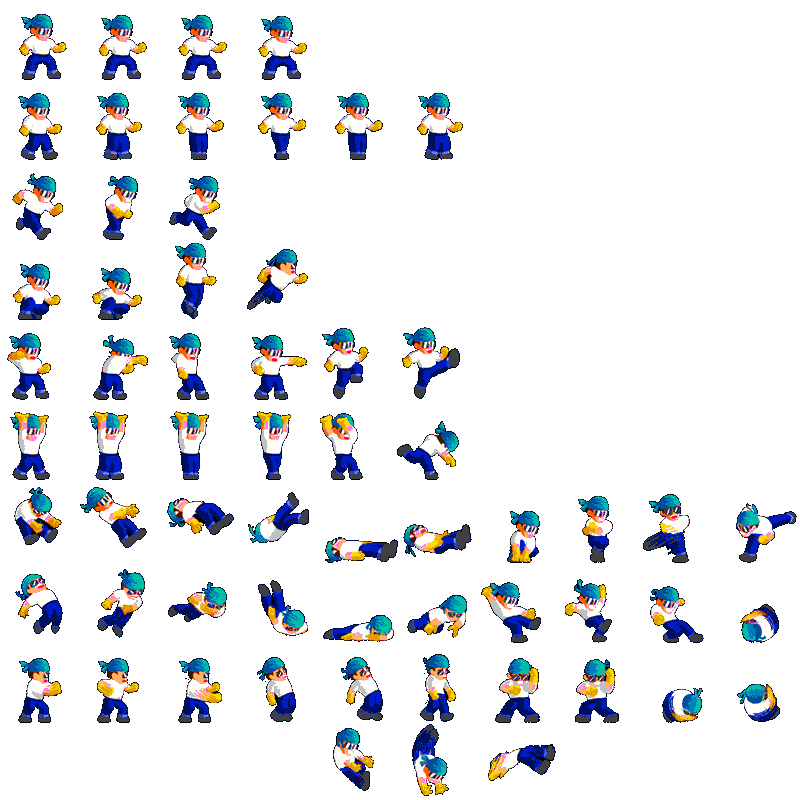
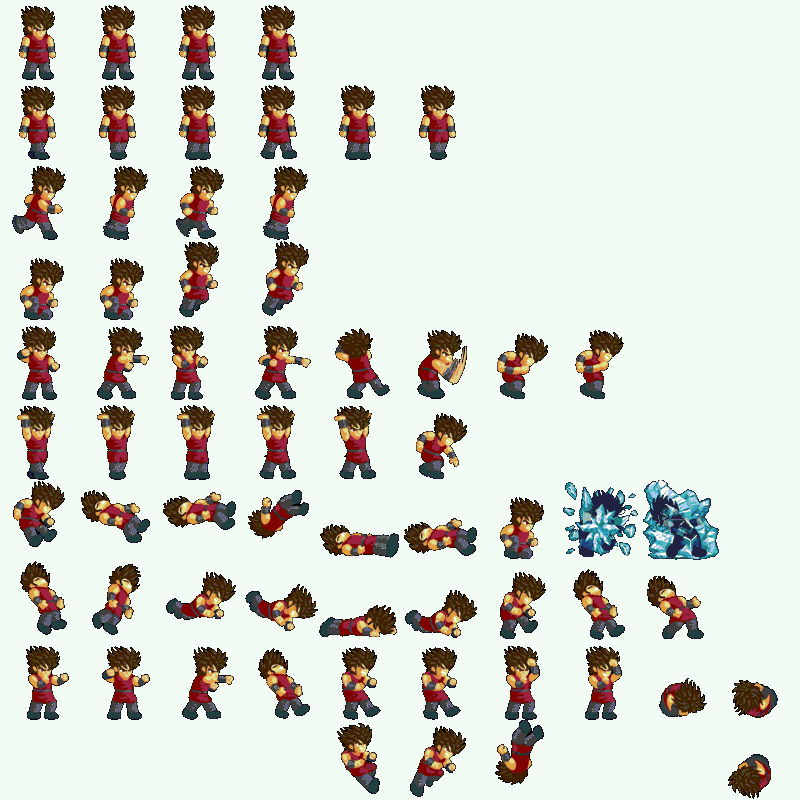
- Compleet werkend menu toegevoegd, met de mogelijkheid het spel te starten, af te sluiten, of naar een optiemenu te gaan, waar men de character kan aanpassen. Het gekozen character staat bewegend aan de zijkant van het scherm. - Marge van 50 naar 250 gewijzigd - Character2 aangepast

diff --git a/Prototype/Prototype/Game1.cs b/Prototype/Prototype/Game1.cs
@@ -15,32 +15,37 @@ namespace Prototype
 {
     public class Game1 : Microsoft.Xna.Framework.Game
     {
-        //Game status
-        public enum GameState
-        {
-            StartScreen,
-            Running
-        }
-
-        //Textures startscherm en eindscherm
-        Texture2D startScreen;
-
-        //Game status in het begin
-        GameState gameState = GameState.StartScreen;
-
         GraphicsDeviceManager graphics;
         SpriteBatch spriteBatch;
 
-        Character character;
+        MainMenu mainMenu;
+        OptionsMenu optionsMenu;        
+        public enum GameState //Game status
+        {
+            mainmenu,
+            options,
+            running
+        }
+        public GameState gameState = GameState.mainmenu;
 
+      public  enum Difficulty
+        {
+            easy,
+            medium,
+            hard
+        }
+       public Difficulty difficulty = Difficulty.easy;
+
+       public static Character character;
         public static Texture2D character1Texture;
         public static Texture2D character2Texture;
+
         Texture2D backgroundTexture;
 
         public static List<Platform> platforms;
         Texture2D platformTexture;
         public static Vector2[] startPosPlat;
-
+        
         KeyboardState currentKeyboardState;
         KeyboardState previousKeyboardState;
 
@@ -53,6 +58,9 @@ namespace Prototype
 
         protected override void Initialize()
         {
+            mainMenu = new MainMenu(this.Content, this);
+            optionsMenu = new OptionsMenu(this.Content, this);
+
             // Maak hard-coded 4 platformen aan:
             platforms = new List<Platform>();
             Platform platform = new Platform();
@@ -75,7 +83,7 @@ namespace Prototype
             platforms.Add(platform8);
             platforms.Add(platform9);
             platforms.Add(platform10);
-            startPosPlat = new Vector2[10]{new Vector2(233,380), new Vector2(150,290), new Vector2(350,330), new Vector2(100,430), new Vector2(-100, 250), new Vector2(600, 350), new Vector2(200,200), new Vector2(200, 150), new Vector2(200, 100), new Vector2(200, 50)}; // Begin posities voor respawnen
+            startPosPlat = new Vector2[10] { new Vector2(233, 380), new Vector2(150, 290), new Vector2(350, 330), new Vector2(100, 430), new Vector2(-100, 250), new Vector2(600, 350), new Vector2(200, 200), new Vector2(200, 150), new Vector2(200, 100), new Vector2(200, 50) }; // Begin posities voor respawnen
             platform.boundingBox = new Rectangle((int)startPosPlat[0].X, (int)startPosPlat[0].Y, 334, 28);
             platform2.boundingBox = new Rectangle((int)startPosPlat[1].X, (int)startPosPlat[1].Y, 100, 10);
             platform3.boundingBox = new Rectangle((int)startPosPlat[2].X, (int)startPosPlat[2].Y, 300, 15);
@@ -108,9 +116,6 @@ namespace Prototype
             spriteBatch = new SpriteBatch(GraphicsDevice);
             Services.AddService(typeof(SpriteBatch), spriteBatch); // Zodat je de spriteBatch kan gebruiken in GameComponents
 
-            //Afbeeldingen die het startscherm vormt laden
-            startScreen = Content.Load<Texture2D>("StartScherm");
-
             character = new Character(this); //"this" omdat character een constructor heeft
             character1Texture = this.Content.Load<Texture2D>("character1");
             character2Texture = this.Content.Load<Texture2D>("character2");
@@ -136,13 +141,17 @@ namespace Prototype
         {
             currentKeyboardState = Keyboard.GetState();
 
-            //Kijken of in startscherm
-            if (gameState == GameState.StartScreen)
-                UpdateSplashScreen();
-            else
+            //Als gebruiker in het hoofdmenu zit
+            if (gameState == GameState.mainmenu)
+                mainMenu.Update(gameTime, currentKeyboardState, previousKeyboardState);
+            else if (gameState == GameState.options)
+            {
+                optionsMenu.Update(gameTime, currentKeyboardState, previousKeyboardState);
+            }
+            else if (gameState == GameState.running)
             {
                 if (currentKeyboardState.IsKeyDown(Keys.Escape)) //Ga naar het startscherm als de "escape"-toets wordt ingedrukt
-                    gameState = GameState.StartScreen;
+                    gameState = GameState.mainmenu;
 
                 character.Update(gameTime, currentKeyboardState, previousKeyboardState);
             }
@@ -150,17 +159,16 @@ namespace Prototype
             // Status van toetsenbord van vorige doorloop opslaan
             previousKeyboardState = currentKeyboardState;
 
+
+            
+
             base.Update(gameTime);
         }
 
-        //Kijken of er iets moet worden gedaan bij startscherm
-        private void UpdateSplashScreen()
-        {
-            if (currentKeyboardState.IsKeyDown(Keys.Space))
-                gameState = GameState.Running; //Game spelen wanneer Spatie ingedrukt is geweest
-            else if (currentKeyboardState.IsKeyDown(Keys.Escape) && !previousKeyboardState.IsKeyDown(Keys.Escape))
-                this.Exit(); //Game sluiten als Esc ingedrukt is geweest
-        }
+
+
+
+
 
         public Platform GetIntersectingPlatform(Rectangle feetBounds) //Kijken of een platform in de lijst in contact komt met character
         {
@@ -175,16 +183,26 @@ namespace Prototype
 
 
 
+
         protected override void Draw(GameTime gameTime)
         {
             GraphicsDevice.Clear(Color.CornflowerBlue);
 
             //Kijken welke status om te bepalen welk 'scherm' te tonen
-            if (gameState == GameState.StartScreen)
+            if (gameState == GameState.mainmenu)
             {
-                DrawStartScreen();
+                spriteBatch.Begin();
+                //DrawMainMenu(gameTime, spriteBatch);
+                mainMenu.Draw(gameTime, spriteBatch);
+                spriteBatch.End();
             }
-            else if (gameState == GameState.Running)
+            else if (gameState == GameState.options)
+            {
+                spriteBatch.Begin();
+                optionsMenu.Draw(gameTime, spriteBatch);
+                spriteBatch.End();
+            }
+            else if (gameState == GameState.running)
             {
                 spriteBatch.Begin();
                 spriteBatch.Draw(backgroundTexture, new Rectangle(0, 0, backgroundTexture.Width, backgroundTexture.Height), Color.White);
@@ -199,17 +217,5 @@ namespace Prototype
                 base.Draw(gameTime);
             }
         }
-
-        //Het tekenen van het startscherm
-        private void DrawStartScreen()
-        {
-            spriteBatch.Begin();
-
-            spriteBatch.Draw(startScreen, Vector2.Zero, null, Color.White);
-
-            spriteBatch.End();
-        }
-
-
     }
 }

diff --git a/Prototype/Prototype/Character.cs b/Prototype/Prototype/Character.cs
@@ -198,7 +198,7 @@ namespace Prototype
                 }
             }
 
-
+            
             if (currentKeyboardState.IsKeyDown(Keys.E) && !previousKeyboardState.IsKeyDown(Keys.E)) //Character veranderen met E
             {
                 if (playerTexture == Game1.character1Texture)

diff --git a/Prototype/Prototype/Scrollen.cs b/Prototype/Prototype/Scrollen.cs
@@ -41,7 +41,7 @@ namespace Prototype
         public override void Update(GameTime gameTime)
         {
             // TODO: Add your update code here
-            int marge = 20;
+            int marge = 250;
 
             if (Character.bounds.X < marge) // Naar links
             {
